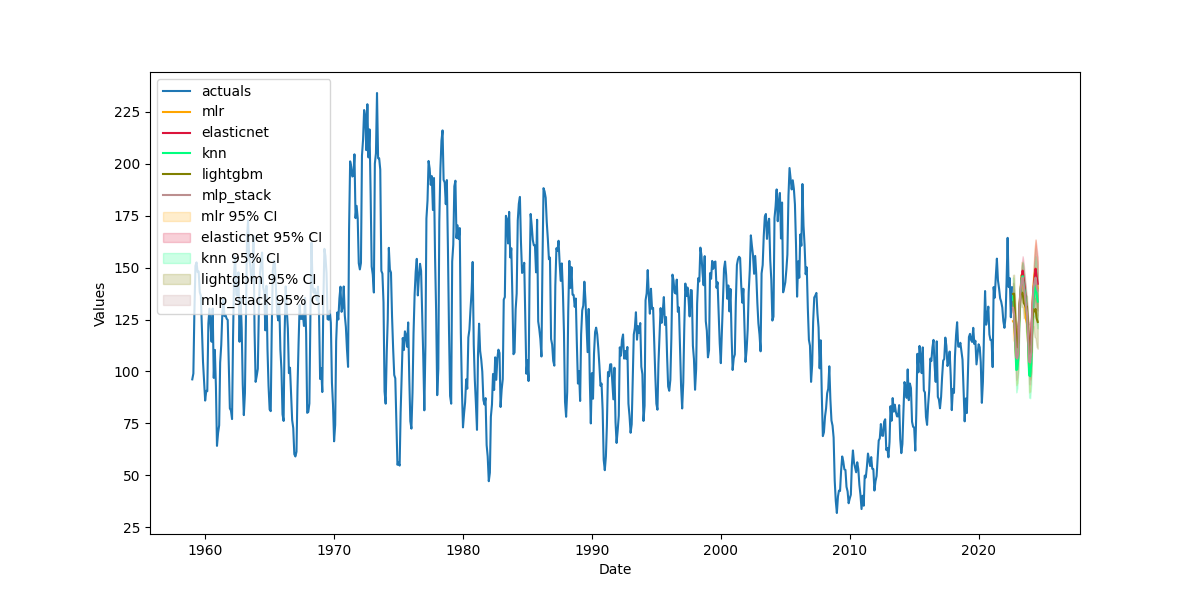
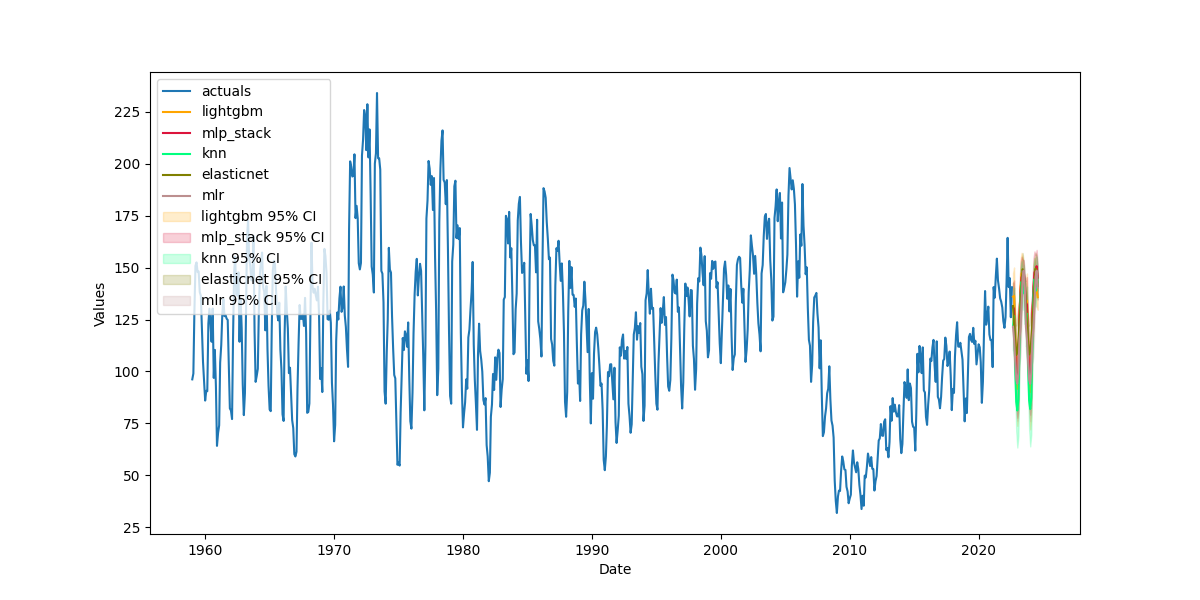
Documentation updates

diff --git a/src/scalecast/util.py b/src/scalecast/util.py
@@ -97,7 +97,7 @@ class metrics:
 
     def smape(a,f):
         """ symmetric mean absolute percentage error (sMAPE).
-        uses the same definition as used in M4 competition.
+        uses the same definition as used in the M4 competition.
         does not multiply by 100.
         see https://ideas.repec.org/a/eee/intfor/v36y2020i1p54-74.html.
 
@@ -126,7 +126,7 @@ class metrics:
 
     def mase(a,f,obs,m):
         """ mean absolute scaled error (MASE).
-        uses the same definition as used in M4 competition.
+        uses the same definition as used in the M4 competition.
         see https://ideas.repec.org/a/eee/intfor/v36y2020i1p54-74.html.
 
         Args:
@@ -158,7 +158,7 @@ class metrics:
 
     def msis(a,uf,lf,obs,m,alpha=0.05):
         """ mean scaled interval score (MSIS) for evaluating confidence intervals.
-        uses the same definition as used in M4 competition.
+        uses the same definition as used in the M4 competition.
         lower values are better.
         see https://ideas.repec.org/a/eee/intfor/v36y2020i1p54-74.html.
 

diff --git a/README.md b/README.md
@@ -12,7 +12,7 @@ The scalecast package was designed to address this situation and offer advanced 
 
 ```python
 from scalecast.Forecaster import Forecaster
-from scalecast.SeriesTransformer import SeriesTransformer
+from scalecast.Pipeline import Pipeline, Transformer, Reverter
 from scalecast.auxmodels import mlp_stack
 from scalecast import GridGenerator
 import matplotlib.pyplot as plt
@@ -32,28 +32,44 @@ df = pdr.get_data_fred(
   start='1959-01-01',
   end='2022-08-01'
 )
+
 f = Forecaster(
   y=df['HOUSTNSA'],
   current_dates=df.index,
   future_dates=24,
 )
 
-transformer = SeriesTransformer(f)
-f = transformer.LogTransform()
-f = transformer.DiffTransform(1)
+def forecaster(f,models):
+    """ add Xvars and forecast
+    """
+    f.add_covid19_regressor()
+    f.auto_Xvar_select(cross_validate=True)
+    f.tune_test_forecast(models)
+    mlp_stack(f,models)
+        
+transformer = Transformer(
+    transformers = [
+        ('LogTransform',),
+        ('DiffTransform',1),
+    ],
+)
+reverter = Reverter(
+    # list reverters in reverse order
+    reverters = [
+        ('DiffRevert',1),
+        ('LogRevert',),
+    ],
+    base_transformer = transformer,
+)
+pipeline = Pipeline(
+    steps = [
+        ('Transform',transformer),
+        ('Forecast',forecaster),
+        ('Revert',reverter),
+    ],
+)
 
-# validation splits
-f.set_test_length(0.2)
-f.set_validation_length(24)
-# prepare series for forecast
-f.add_covid19_regressor()
-f.auto_Xvar_select(cross_validate=True)
-
-f.tune_test_forecast(models)
-mlp_stack(f,models)
-
-f = transformer.DiffRevert(1)
-f = transformer.LogRevert()
+f = pipeline.fit_predict(f,models=models)
 
 f.reeval_cis() # expanding cis based on all model results
 f.plot(ci=True,order_by='LevelTestSetMAPE')
